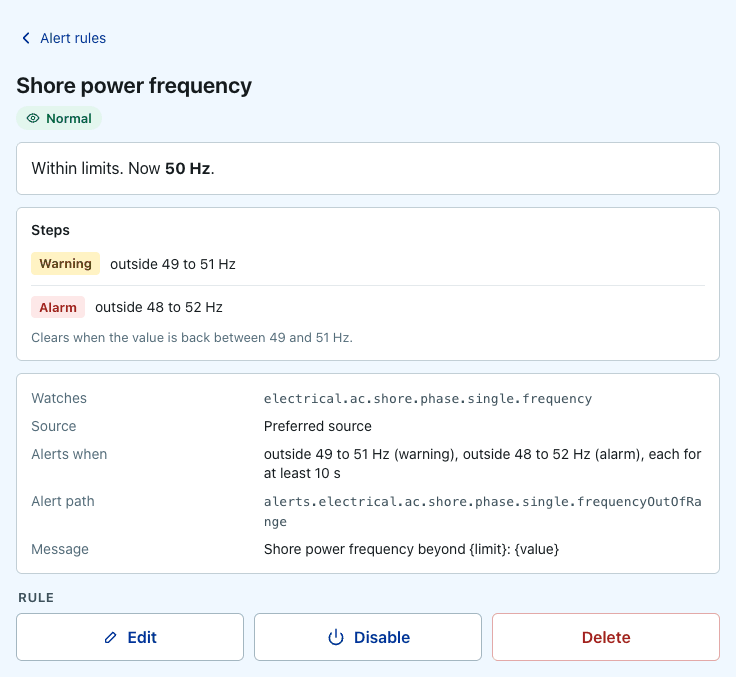
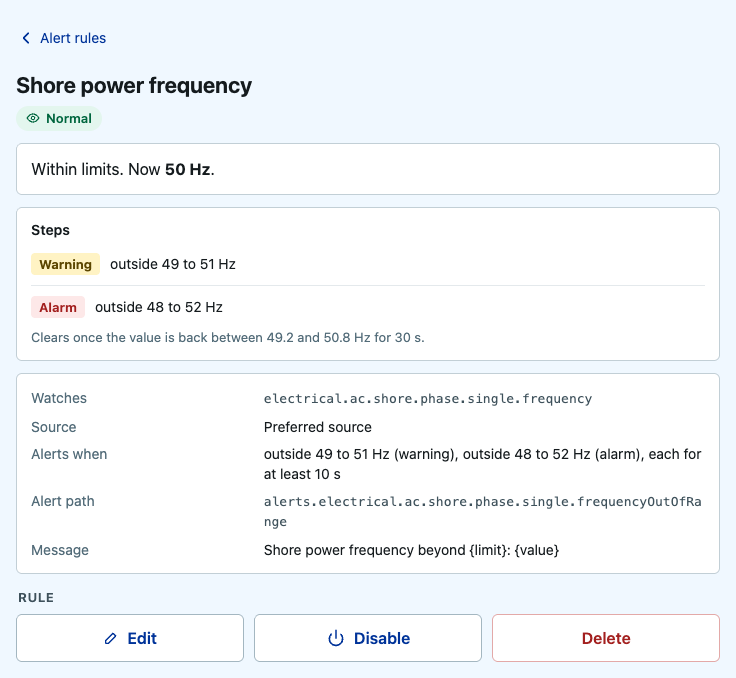
docs(examples): re-capture the changed details
The rule detail now words the clear margin and delay, a count's event
and window, rates per minute, each gate's comparison and latching, and
the editor's summary the clear margin. Re-captures the images showing
them and words the gates and the clear hint in the text.

Captured from the render harness at 1280 px, with the rules' states
set to those of the previous images, rather than from a server.

diff --git a/docs/examples.md b/docs/examples.md
@@ -121,7 +121,7 @@ Raises a caution when the port and starboard engine speeds differ by more than 3
 
 ![The editor for Engine RPM mismatch](images/examples/engine-rpm-mismatch-editor.png)
 
-The rule detail names the combination and its inputs, and the paths the rule is gated on.
+The rule detail names the combination and its inputs, and each condition the rule is gated on, with its limit.
 
 ![The detail of Engine RPM mismatch](images/examples/engine-rpm-mismatch-detail.png)
 
@@ -212,6 +212,6 @@ Warns when the shore power frequency is outside 49-51 Hz for 10 s, and climbs to
 
 ![The editor for Shore power frequency](images/examples/shore-power-frequency-editor.png)
 
-The rule detail shows the steps the alert climbs.
+The rule detail shows the steps the alert climbs, and where the value must be back for the alert to clear.
 
 ![The detail of Shore power frequency](images/examples/shore-power-frequency-detail.png)
